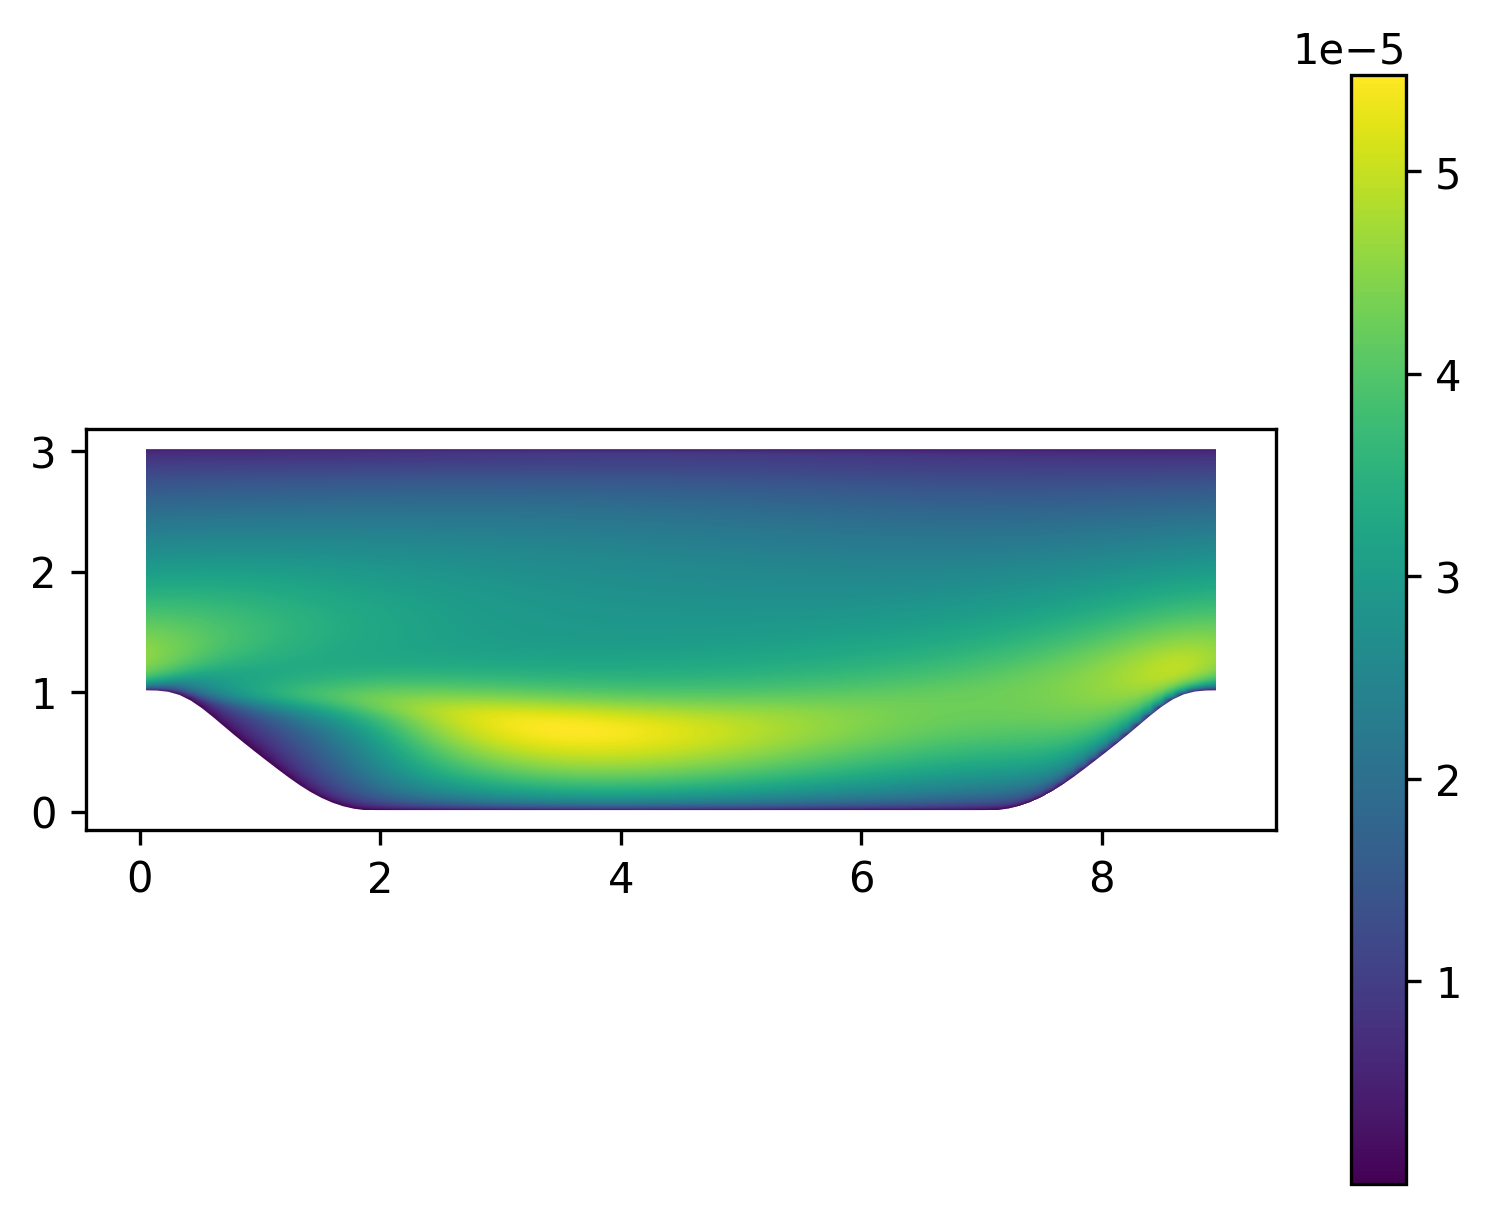
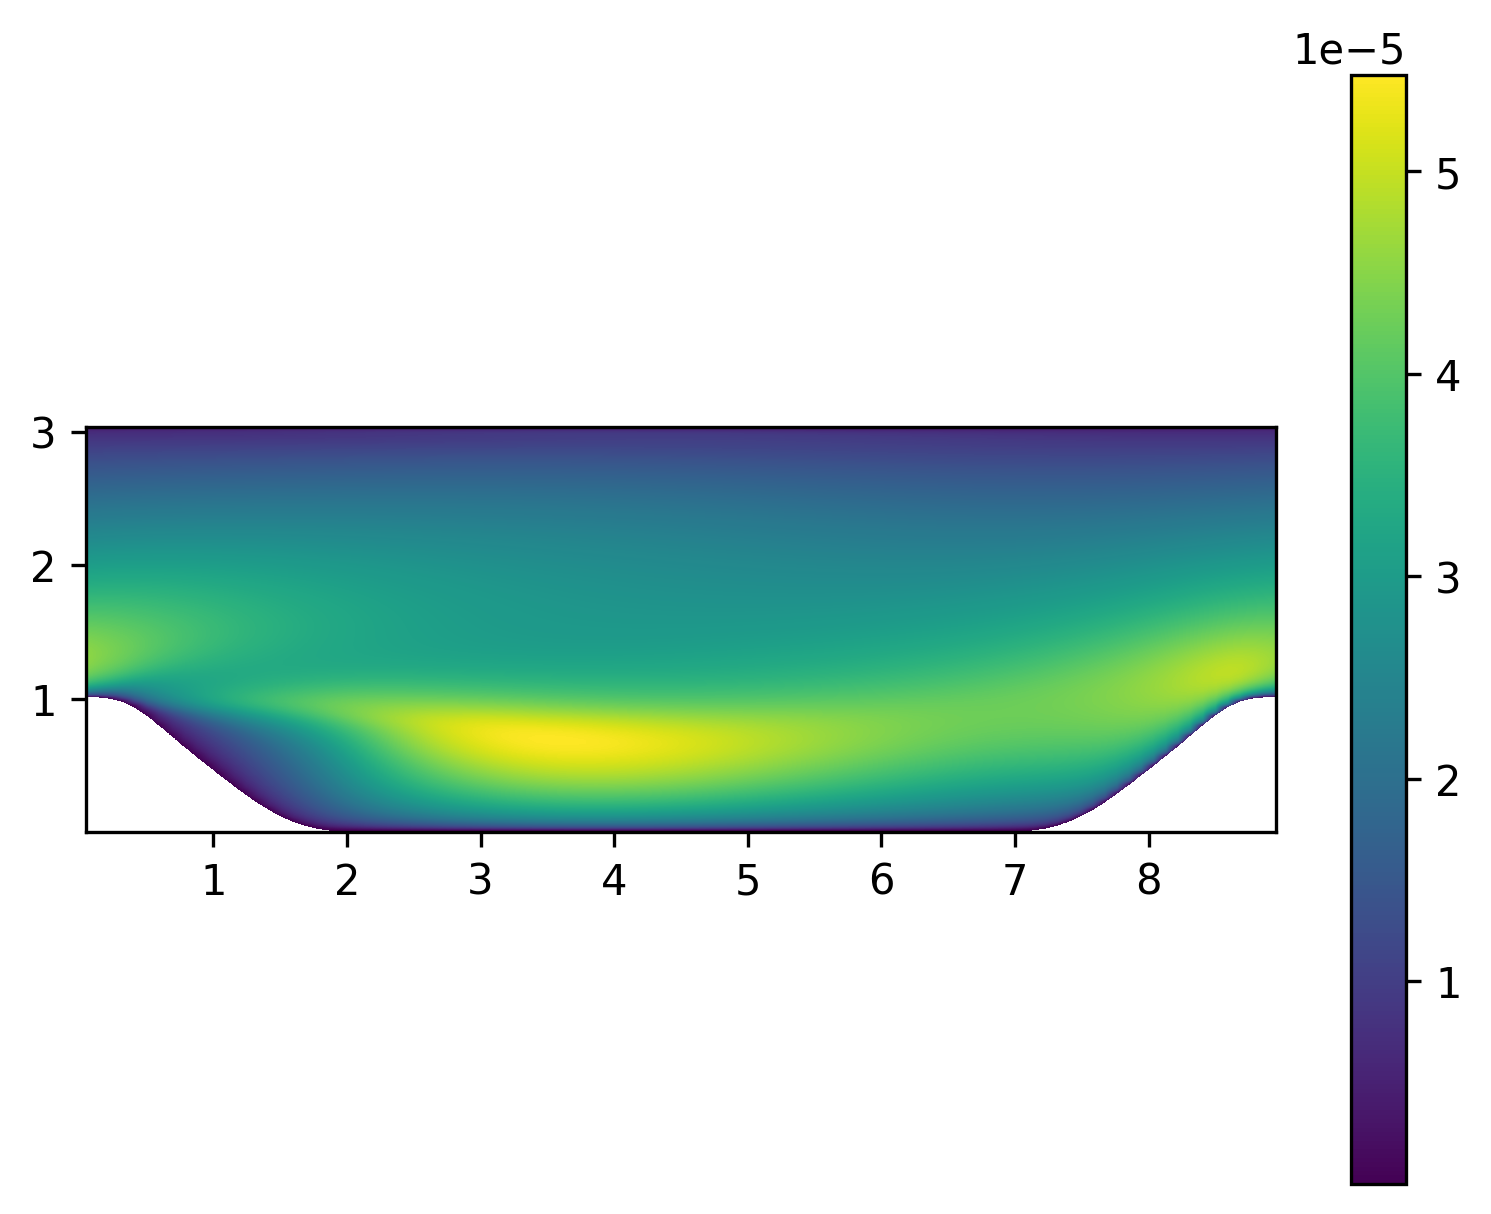
Fixed boundary issue

Changed region(s): [[0.0, 0.3353, 0.8638, 0.7315]]

diff --git a/postfoam/foamtopy.py b/postfoam/foamtopy.py
@@ -7,6 +7,8 @@ from os import listdir
 import os.path  
 from scipy.interpolate import griddata
 import re
+from matplotlib.path import Path
+
 
 
 class FoamCase:
@@ -174,67 +176,15 @@ class FoamCase:
         yi = np.linspace(min(y),max(y),3000)
         xi, yi = np.meshgrid(xi,yi)
         zi = griddata((x,y),z,(xi,yi),method='linear')
+
+        bounds = self.get_mask_line()
+        points = np.vstack((xi.flatten(),yi.flatten())).T
+        path = Path(bounds)
+        grid = path.contains_points(points)
+        grid = grid.reshape((len(yi),len(xi)))
+        zi[grid == False] = np.nan
+
         return xi,yi,zi
-
-    def get_mask_line(self):
-        xy_bounds = self.read_boundary()
-        inv_index = np.array([0],dtype = int)
-        for i in range(2,len(xy_bounds)):
-            if abs(xy_bounds[i,0]-xy_bounds[i-1,0])>(max(xy_bounds[:,0])-min(xy_bounds[:,0]))/10 or abs(xy_bounds[i,1]-xy_bounds[i-1,1])>(max(xy_bounds[:,1])-min(xy_bounds[:,1]))/10: 
-                inv_index = np.append(inv_index,i)
-        inv_index = np.append(inv_index,len(xy_bounds))
-        boundary_types = np.array([])
-        for i in range(1,len(inv_index)):
-            if max(xy_bounds[inv_index[i-1]:inv_index[i],1]) <= min(np.delete(xy_bounds,np.arange(inv_index[i-1],inv_index[i],1), axis=0)[:,1]):
-                boundary_types = np.append(boundary_types, 'bottom')
-            elif max(xy_bounds[inv_index[i-1]:inv_index[i],1]) >= max(np.delete(xy_bounds,np.arange(inv_index[i-1],inv_index[i],1), axis=0)[:,1]):
-                boundary_types = np.append(boundary_types, 'top')
-            elif max(xy_bounds[inv_index[i-1]:inv_index[i],0]) <= min(np.delete(xy_bounds,np.arange(inv_index[i-1],inv_index[i],1), axis=0)[:,0]):
-                boundary_types = np.append(boundary_types, 'left')
-            elif min(xy_bounds[inv_index[i-1]:inv_index[i],0]) >= max(np.delete(xy_bounds,np.arange(inv_index[i-1],inv_index[i],1), axis=0)[:,0]):
-                boundary_types = np.append(boundary_types, 'right')
-            else:
-                print('Error boundary not found')
-
-        line_completed = False
-        line = np.empty([1,2])
-        while not line_completed:
-            if 'bottom' in boundary_types:
-                i = np.where(boundary_types=='bottom')[0][0] + 1
-                line = np.vstack((line,xy_bounds[inv_index[i-1]:inv_index[i],:]))
-                bottom = xy_bounds[inv_index[i-1]:inv_index[i],:]
-                boundary_types[np.where(boundary_types=='bottom')] = 'skip'
-            elif 'right' in boundary_types:
-                i = np.where(boundary_types=='right')[0][0] + 1
-                line = np.vstack((line,xy_bounds[inv_index[i-1]:inv_index[i],:]))
-                right = xy_bounds[inv_index[i-1]:inv_index[i],:]
-                boundary_types[np.where(boundary_types=='right')] = 'skip'
-            elif 'top' in boundary_types:
-                i = np.where(boundary_types=='top')[0][0] + 1
-                line = np.vstack((line,xy_bounds[inv_index[i-1]:inv_index[i],:]))
-                boundary_types[np.where(boundary_types=='top')] = 'skip'
-                top = xy_bounds[inv_index[i-1]:inv_index[i],:]
-            elif 'left' in boundary_types:
-                i = np.where(boundary_types=='left')[0][0] + 1
-                line = np.vstack((line,xy_bounds[inv_index[i-1]:inv_index[i],:]))
-                left = xy_bounds[inv_index[i-1]:inv_index[i],:]
-                boundary_types[np.where(boundary_types=='left')] = 'skip'
-                line_completed = True
-        line = line[1:,:]
-            
-        inv_index = np.array([0],dtype = int)
-        for i in range(2,len(line)):
-            if abs(line[i,0]-line[i-1,0])>(max(line[:,0])-min(line[:,0]))/10 or abs(line[i,1]-line[i-1,1])>(max(line[:,1])-min(line[:,1]))/10: 
-                inv_index = np.append(inv_index,i)
-        inv_index = np.append(inv_index,len(line))
-        cont_line = np.empty([1,2])
-        for i in range(1,len(inv_index)):
-            if i % 2 != 0:
-                cont_line = np.vstack((cont_line,line[inv_index[i-1]:inv_index[i],:]))
-            else:
-                cont_line = np.vstack((cont_line,line[inv_index[i-1]:inv_index[i],:][::-1]))
-        cont_line = cont_line[1:,:]
-        return cont_line, bottom, top, left, right
 
     def plotSurface(self, field: str, index: int = None, out = "out.png", colorbar: str = 'n', show: str = 'y'):
         '''Cell coordinates have to be present in file C'''
@@ -243,16 +193,40 @@ class FoamCase:
         y = self.parameters.get('C')[:,1]
         xi,yi,zi = self.interp_data(field, index)
         plt.imshow(zi, extent=[min(x),max(x),min(y),max(y)], origin='lower', cmap='viridis')
-        self.plot_boundary()
         if colorbar == 'y':
             plt.colorbar()
         if show == 'y':
             plt.savefig(out, dpi = 300, bbox_inches='tight')
             plt.show()
 
-    def plot_boundary(self):
-        boundary, bottom, top, left, right = self.get_mask_line()
-        plt.fill_between(bottom[:,0],bottom[:,1], min(boundary[:,1]), color = 'w')
-        plt.fill_between(top[:,0],top[:,1], max(boundary[:,1]), color = 'w')
-        plt.fill_betweenx(left[:,1],left[:,0], min(boundary[:,0]), color = 'w')
-        plt.fill_betweenx(right[:,1],right[:,0], max(boundary[:,0]), color = 'w')
+    def get_mask_line(self):
+        xy_bounds = self.read_boundary()
+        inv_index = np.array([0],dtype = int)
+        for i in range(2,len(xy_bounds)):
+            if abs(xy_bounds[i,0]-xy_bounds[i-1,0])>(max(xy_bounds[:,0])-min(xy_bounds[:,0]))/10 or abs(xy_bounds[i,1]-xy_bounds[i-1,1])>(max(xy_bounds[:,1])-min(xy_bounds[:,1]))/10: 
+                inv_index = np.append(inv_index,i)
+        inv_index = np.append(inv_index,len(xy_bounds))
+        lines = {}
+        for i in range(1,len(inv_index)):
+            lines[i-1] = xy_bounds[inv_index[i-1]:inv_index[i],:]
+
+        line_completed = False
+        line = lines.get(0)
+        while not line_completed:
+            dx = np.inf
+            for i in range(1,len(inv_index)-1):
+                dx_1 = np.sqrt((lines.get(i)[0,0]-line[-1,0])**2+(lines.get(i)[0,1]-line[-1,1])**2)
+                dx_2 = np.sqrt((lines.get(i)[-1,0]-line[-1,0])**2+(lines.get(i)[-1,1]-line[-1,1])**2)
+                if min(dx_1,dx_2)<dx:
+                    dx = min(dx_1,dx_2)
+                    next_line = i
+            if dx_2<dx_1:
+                line = np.vstack((line,lines.get(next_line)[::-1]))
+            else:
+                line = np.vstack((line,lines.get(next_line)))
+            lines[next_line]=np.full((lines[next_line].shape[0], lines[next_line].shape[1]), np.inf)
+            if dx == np.inf:
+                line_completed = True    
+        return line
+
+    '''Add create field option, plot boundary'''

diff --git a/postfoam/test.py b/postfoam/test.py
@@ -23,6 +23,11 @@ plt.figure()
 xi,yi,zi = pe_hills.interp_data('U', 0)
 plt.contourf(xi, yi, zi, 20, cmap='viridis')
 #plt.imshow(zi, extent=[min(x),max(x),min(y),max(y)], origin='lower', cmap='viridis')
-pe_hills.plot_boundary()
 plt.savefig('contour_U.png', dpi = 300, bbox_inches='tight')
 plt.show()
+
+'''Testing for different case'''
+pitzDaily = fp.FoamCase("/home/yiagoskyrits/postfoam/tests/test_case/pitzDaily", 200)
+pitzDaily.show_parameters()
+pitzDaily.plotSurface('p')
+line = pitzDaily.get_lineFace(start=[0, 0, 0], end=[0, 1, 0], field="U", index=0, nPoints=100)

diff --git a/postfoam/script.py b/postfoam/script.py
@@ -4,10 +4,7 @@ import matplotlib.pyplot as plt
 import numpy as np
 
 
-'''Test for different case'''
-pitzDaily = fp.FoamCase("/home/yiagoskyrits/postfoam/tests/test_case/pitzDaily", 200)
-pitzDaily.show_parameters()
-pitzDaily.plotSurface('p')
-line = pitzDaily.get_lineFace(start=[0, 0, 0], end=[0, 1, 0], field="U", index=0, nPoints=100)
+
+
 
 
